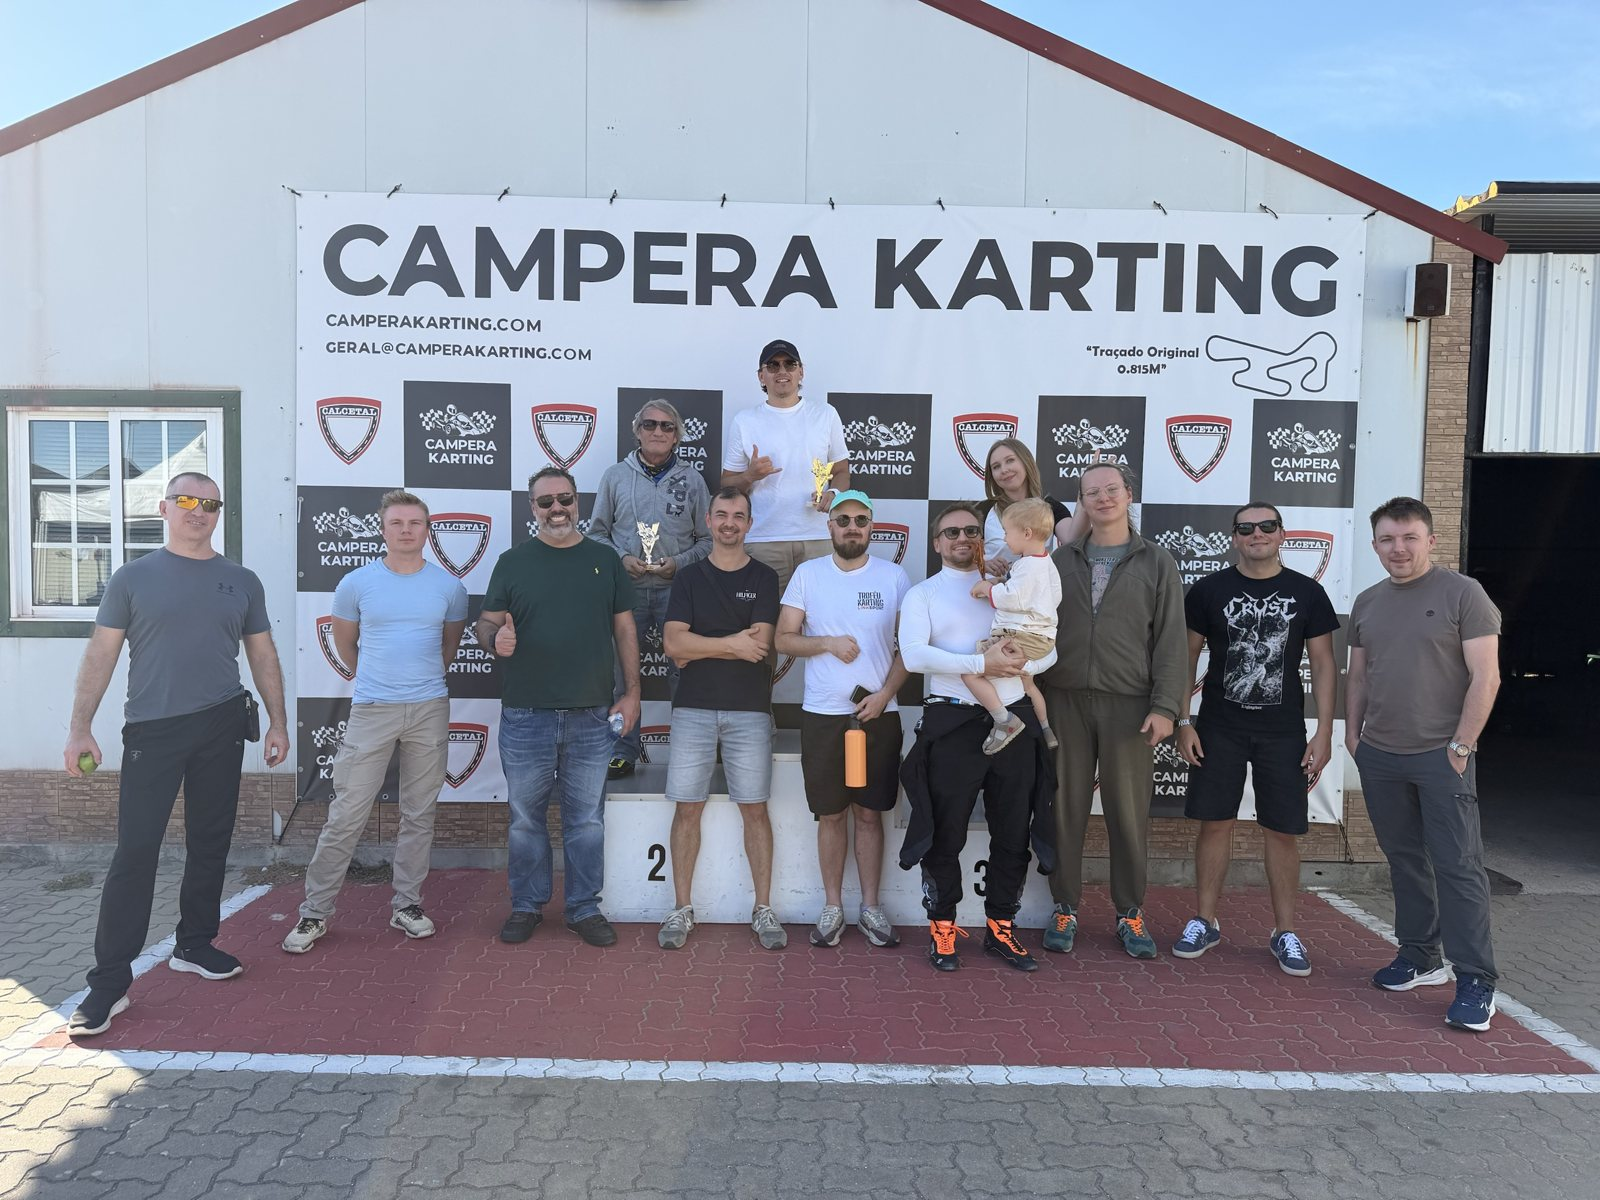
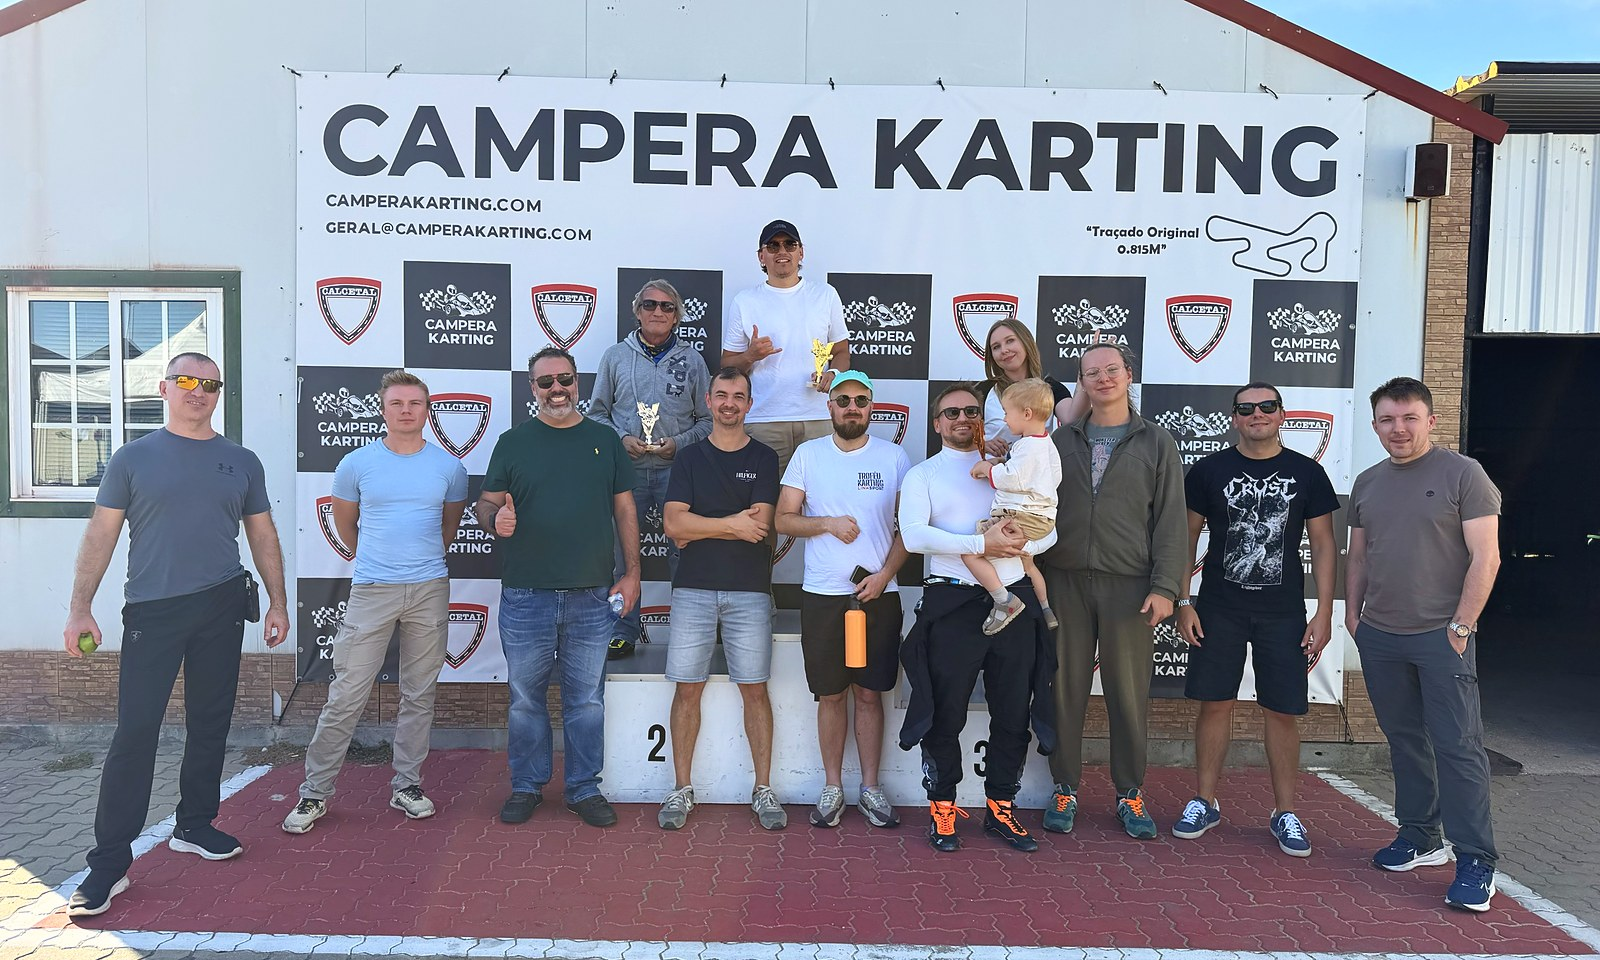
Campera results: retouched podium photo
Claude-Session: https://claude.ai/code/session_01TtrRX559LmwcyEddwVH8nn

diff --git a/index.html b/index.html
@@ -5694,7 +5694,7 @@ function renderCampera() {
   const wrap = document.getElementById('camp-wrap');
   if (!wrap) return;
   const fl = '<span class="fl-badge">FL</span>';
-  let h = `<div style="width:100%;aspect-ratio:4/3;overflow:hidden;background:var(--surface2);">
+  let h = `<div style="width:100%;aspect-ratio:5/3;overflow:hidden;background:var(--surface2);">
     <img src="${CAMP.photo}" onerror="this.parentNode.style.display='none'" style="width:100%;height:100%;object-fit:cover;display:block;" alt="Campera podium">
   </div><div style="padding:14px 14px 0;">`;
 
